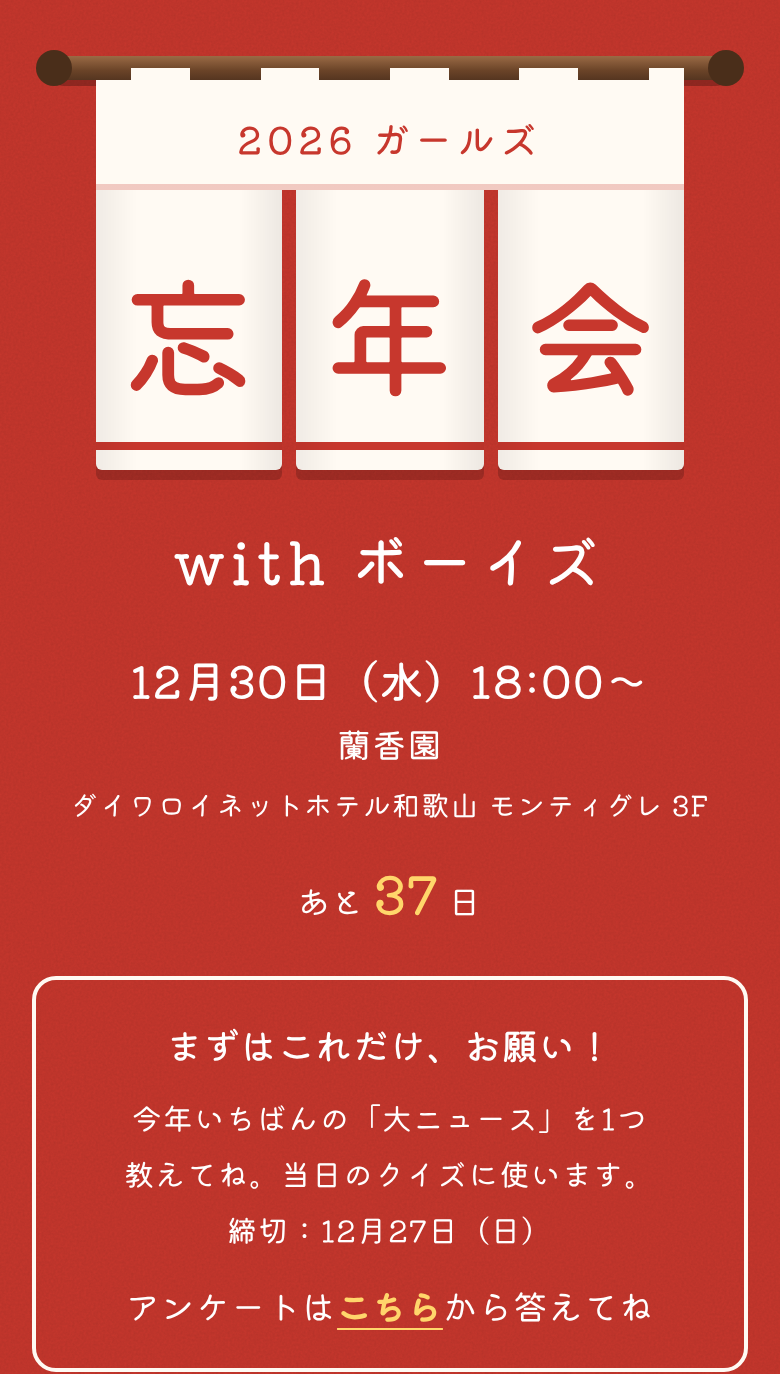
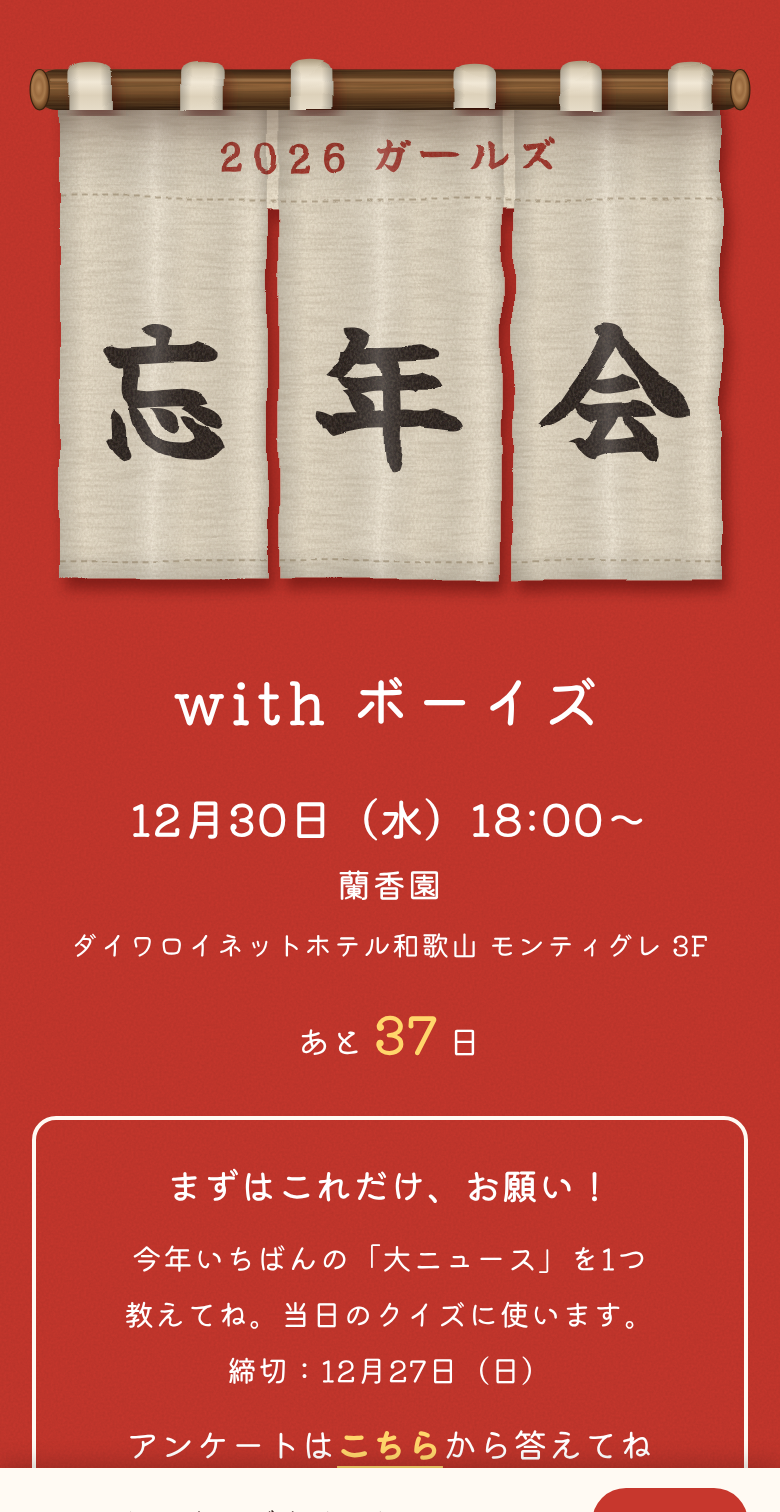
Redraw noren as textured SVG: wooden rod, linen cloth, loops, brush lettering
Claude-Session: https://claude.ai/code/session_018ZJwZKsz6jpVydR1pVijYJ

diff --git a/bonenkai2026/index.html b/bonenkai2026/index.html
@@ -5,7 +5,7 @@
 <meta name="viewport" content="width=device-width, initial-scale=1">
 <title>ガールズ忘年会2026</title>
 <link rel="preconnect" href="https://fonts.googleapis.com">
-<link href="https://fonts.googleapis.com/css2?family=Kiwi+Maru:wght@400;500&display=swap" rel="stylesheet">
+<link href="https://fonts.googleapis.com/css2?family=Kiwi+Maru:wght@400;500&family=Yuji+Syuku&display=swap" rel="stylesheet">
 <style>
 :root{
   --aka:#c7372d; --aka-d:#a92a22; --shiro:#fffaf3; --ink:#3b2320; --sub:#86655e; --rule:#ead9d1; --pale:#f6ebe6;
@@ -37,22 +37,8 @@ section{padding:8px 0 48px}
 
 /* ---- ヘッダー ---- */
 .top{text-align:center;padding:28px 0 0}
-/* 暖簾 */
-.noren{display:inline-block;position:relative;padding-top:12px;margin:0 0 12px}
-.rod{position:absolute;top:0;left:-22px;right:-22px;height:12px;border-radius:6px;background:linear-gradient(#9a6a45,#6b4428 60%,#553520);box-shadow:0 3px 0 rgba(0,0,0,.25)}
-.rod::before,.rod::after{content:"";position:absolute;top:-3px;width:18px;height:18px;border-radius:50%;background:#4a2e1a}
-.rod::before{left:-8px} .rod::after{right:-8px}
-.banner{position:relative;display:block;background:var(--shiro);color:var(--aka);font-weight:500;font-size:clamp(16px,4.8vw,21px);padding:12px 0 8px;letter-spacing:.14em;
-  background-image:linear-gradient(transparent calc(100% - 3px),rgba(199,55,45,.25) calc(100% - 3px))}
-.banner::before{content:"";position:absolute;top:-6px;left:0;right:0;height:8px;
-  background:repeating-linear-gradient(90deg,transparent 0 6%,var(--shiro) 6% 16%,transparent 16% 22%)}
-.big-tiles{display:flex;justify-content:center;gap:7px;margin:0}
-.big-tiles span{display:grid;place-items:center;width:clamp(78px,24vw,120px);height:clamp(118px,36vw,176px);color:var(--aka);font-size:clamp(54px,17vw,88px);font-weight:500;line-height:1;
-  background:linear-gradient(90deg,rgba(0,0,0,.06),transparent 22%,transparent 78%,rgba(0,0,0,.07)),
-    linear-gradient(transparent calc(100% - 14px),var(--aka) calc(100% - 14px),var(--aka) calc(100% - 10px),transparent calc(100% - 10px)),var(--shiro);
-  border-radius:0 0 3px 3px;box-shadow:0 5px 0 rgba(0,0,0,.18);transform-origin:top center;animation:sway 3.6s ease-in-out infinite alternate}
-.big-tiles span:nth-child(2){animation-delay:-1.2s} .big-tiles span:nth-child(3){animation-delay:-2.4s}
-@keyframes sway{from{transform:skewX(1.4deg)}to{transform:skewX(-1.4deg)}}
+.noren{width:min(100%,400px);margin:0 auto 4px}
+.noren svg{width:100%;height:auto;display:block;overflow:visible}
 .with{font-size:clamp(24px,7.4vw,36px);font-weight:500;margin:6px 0 14px;letter-spacing:.1em}
 .with small{font-size:.6em}
 .hero-info{font-size:17px;line-height:1.7;margin:0 0 6px}
@@ -206,11 +192,98 @@ footer .ground{margin-bottom:18px}
 <div id="demoBar" class="demo" hidden>デモ表示中（サンプルデータ・このブラウザ内だけで動作）— 本番は Apps Script で公開したURLを使います</div>
 
 <header class="top"><div class="wrap">
-  <div class="noren">
-    <div class="rod" aria-hidden="true"></div>
-    <div class="banner">2026 ガールズ</div>
-    <h1 class="big-tiles" aria-label="2026 ガールズ忘年会 with ボーイズ"><span>忘</span><span>年</span><span>会</span></h1>
-  </div>
+  <h1 class="noren" aria-label="2026 ガールズ忘年会 with ボーイズ">
+  <svg viewBox="0 0 372 300" aria-hidden="true">
+    <defs>
+      <!-- 木の竿 -->
+      <linearGradient id="nrRod" x1="0" y1="0" x2="0" y2="1">
+        <stop offset="0" stop-color="#2e1b0e"/><stop offset=".25" stop-color="#7a4f2c"/><stop offset=".45" stop-color="#9a6a3e"/>
+        <stop offset=".7" stop-color="#5a381d"/><stop offset="1" stop-color="#25150a"/>
+      </linearGradient>
+      <filter id="nrGrain" x="0" y="0" width="100%" height="100%">
+        <feTurbulence type="fractalNoise" baseFrequency=".012 .9" numOctaves="3" seed="7"/>
+        <feColorMatrix values="0 0 0 0 .12  0 0 0 0 .06  0 0 0 0 .02  0 0 0 -1.6 1.15"/>
+      </filter>
+      <radialGradient id="nrEnd" cx=".45" cy=".45" r=".6">
+        <stop offset="0" stop-color="#b98a5a"/><stop offset=".35" stop-color="#9a6b40"/><stop offset=".55" stop-color="#a87a4c"/>
+        <stop offset=".75" stop-color="#83562f"/><stop offset="1" stop-color="#4a2c14"/>
+      </radialGradient>
+      <!-- 布のシワ（ゆがみ）と影 -->
+      <filter id="nrCloth" x="-6%" y="-6%" width="112%" height="118%">
+        <feTurbulence type="fractalNoise" baseFrequency=".011 .03" numOctaves="2" seed="4" result="w"/>
+        <feDisplacementMap in="SourceGraphic" in2="w" scale="6" xChannelSelector="R" yChannelSelector="G" result="d"/>
+        <feDropShadow in="d" dx="3" dy="6" stdDeviation="3.5" flood-color="#3a0b06" flood-opacity=".45"/>
+      </filter>
+      <!-- 麻の織り目 -->
+      <filter id="nrWeave" x="0" y="0" width="100%" height="100%">
+        <feTurbulence type="fractalNoise" baseFrequency=".9 .7" numOctaves="2" seed="11"/>
+        <feColorMatrix values="0 0 0 0 .35  0 0 0 0 .28  0 0 0 0 .2  0 0 0 -.9 .62"/>
+      </filter>
+      <filter id="nrSlub" x="0" y="0" width="100%" height="100%">
+        <feTurbulence type="fractalNoise" baseFrequency=".05 .6" numOctaves="2" seed="2"/>
+        <feColorMatrix values="0 0 0 0 .4  0 0 0 0 .32  0 0 0 0 .22  0 0 0 -1.2 .7"/>
+      </filter>
+      <!-- 布のたるみ（縦の陰影） -->
+      <linearGradient id="nrFold" x1="0" y1="0" x2="1" y2="0">
+        <stop offset="0" stop-color="#000" stop-opacity=".16"/><stop offset=".12" stop-color="#000" stop-opacity=".02"/>
+        <stop offset=".3" stop-color="#000" stop-opacity=".07"/><stop offset=".46" stop-color="#fff" stop-opacity=".18"/>
+        <stop offset=".62" stop-color="#000" stop-opacity=".03"/><stop offset=".8" stop-color="#000" stop-opacity=".08"/>
+        <stop offset=".92" stop-color="#fff" stop-opacity=".08"/><stop offset="1" stop-color="#000" stop-opacity=".18"/>
+      </linearGradient>
+      <linearGradient id="nrTop" x1="0" y1="0" x2="0" y2="1">
+        <stop offset="0" stop-color="#2a1208" stop-opacity=".45"/><stop offset=".1" stop-color="#2a1208" stop-opacity=".1"/><stop offset=".2" stop-color="#000" stop-opacity="0"/>
+        <stop offset=".93" stop-color="#000" stop-opacity="0"/><stop offset="1" stop-color="#000" stop-opacity=".12"/>
+      </linearGradient>
+      <linearGradient id="nrLoop" x1="0" y1="0" x2="0" y2="1">
+        <stop offset="0" stop-color="#a8987c"/><stop offset=".18" stop-color="#d8ccb4"/><stop offset=".42" stop-color="#f1e8d6"/>
+        <stop offset=".7" stop-color="#ddd1ba"/><stop offset="1" stop-color="#e6dcc8"/>
+      </linearGradient>
+      <linearGradient id="nrLoopSide" x1="0" y1="0" x2="1" y2="0">
+        <stop offset="0" stop-color="#000" stop-opacity=".22"/><stop offset=".25" stop-color="#000" stop-opacity="0"/>
+        <stop offset=".75" stop-color="#000" stop-opacity="0"/><stop offset="1" stop-color="#000" stop-opacity=".25"/>
+      </linearGradient>
+      <clipPath id="nrShape"><path d="M14,22 H358 V272 H250 V78 H244 V272 H128 V78 H122 V272 H14 Z"/></clipPath>
+    </defs>
+
+    <!-- 布 -->
+    <g filter="url(#nrCloth)">
+      <g clip-path="url(#nrShape)">
+        <rect x="0" y="0" width="372" height="300" fill="#e9dfcb"/>
+        <rect x="0" y="0" width="372" height="300" filter="url(#nrSlub)" opacity=".45"/>
+        <g font-family="'Yuji Syuku',serif" text-anchor="middle" fill="#2b2320">
+          <text x="186" y="60" font-size="22" fill="#a8342a" letter-spacing="3">2026 ガールズ</text>
+          <text x="68" y="206" font-size="80">忘</text>
+          <text x="186" y="206" font-size="80">年</text>
+          <text x="304" y="206" font-size="80">会</text>
+        </g>
+        <rect x="14" y="22" width="108" height="250" fill="url(#nrFold)"/>
+        <rect x="128" y="22" width="116" height="250" fill="url(#nrFold)"/>
+        <rect x="250" y="22" width="108" height="250" fill="url(#nrFold)"/>
+        <rect x="0" y="22" width="372" height="250" fill="url(#nrTop)"/>
+        <rect x="0" y="0" width="372" height="300" filter="url(#nrWeave)" opacity=".55"/>
+        <path d="M14,74 H358" stroke="#8d7c62" stroke-width="1" stroke-dasharray="3 2.5" opacity=".55"/>
+        <path d="M14,262 H122 M128,262 H244 M250,262 H358" stroke="#8d7c62" stroke-width="1" stroke-dasharray="3 2.5" opacity=".55"/>
+      </g>
+    </g>
+
+    <!-- 竿 -->
+    <rect x="2" y="7" width="368" height="21" rx="10.5" fill="url(#nrRod)"/>
+    <rect x="2" y="7" width="368" height="21" rx="10.5" filter="url(#nrGrain)" opacity=".85"/>
+    <path d="M10,12.5 H362" stroke="#d9ab78" stroke-opacity=".35" stroke-width="1.5" stroke-linecap="round"/>
+    <ellipse cx="4" cy="17.5" rx="5" ry="10.5" fill="url(#nrEnd)" stroke="#3a220f" stroke-width=".6"/>
+    <ellipse cx="368" cy="17.5" rx="5" ry="10.5" fill="url(#nrEnd)" stroke="#3a220f" stroke-width=".6"/>
+
+    <!-- 乳（竿にかかる輪） -->
+    <g filter="url(#nrCloth)">
+      <path d="M20,28 V9 Q20,3 31,3 Q42,3 42,9 V28 Z" fill="url(#nrLoop)"/><path d="M20,28 V9 Q20,3 31,3 Q42,3 42,9 V28 Z" fill="url(#nrLoopSide)"/>
+      <path d="M77,28 V9 Q77,3 88,3 Q99,3 99,9 V28 Z" fill="url(#nrLoop)"/><path d="M77,28 V9 Q77,3 88,3 Q99,3 99,9 V28 Z" fill="url(#nrLoopSide)"/>
+      <path d="M134,28 V9 Q134,3 145,3 Q156,3 156,9 V28 Z" fill="url(#nrLoop)"/><path d="M134,28 V9 Q134,3 145,3 Q156,3 156,9 V28 Z" fill="url(#nrLoopSide)"/>
+      <path d="M218,28 V9 Q218,3 229,3 Q240,3 240,9 V28 Z" fill="url(#nrLoop)"/><path d="M218,28 V9 Q218,3 229,3 Q240,3 240,9 V28 Z" fill="url(#nrLoopSide)"/>
+      <path d="M275,28 V9 Q275,3 286,3 Q297,3 297,9 V28 Z" fill="url(#nrLoop)"/><path d="M275,28 V9 Q275,3 286,3 Q297,3 297,9 V28 Z" fill="url(#nrLoopSide)"/>
+      <path d="M332,28 V9 Q332,3 343,3 Q354,3 354,9 V28 Z" fill="url(#nrLoop)"/><path d="M332,28 V9 Q332,3 343,3 Q354,3 354,9 V28 Z" fill="url(#nrLoopSide)"/>
+    </g>
+  </svg>
+  </h1>
   <p class="with">with ボーイズ</p>
   <p class="hero-info"><b>12月30日（水）18:00〜</b><br>蘭香園<br><span style="font-size:14px">ダイワロイネットホテル和歌山 モンティグレ 3F</span></p>
   <p class="days" id="days"></p>
